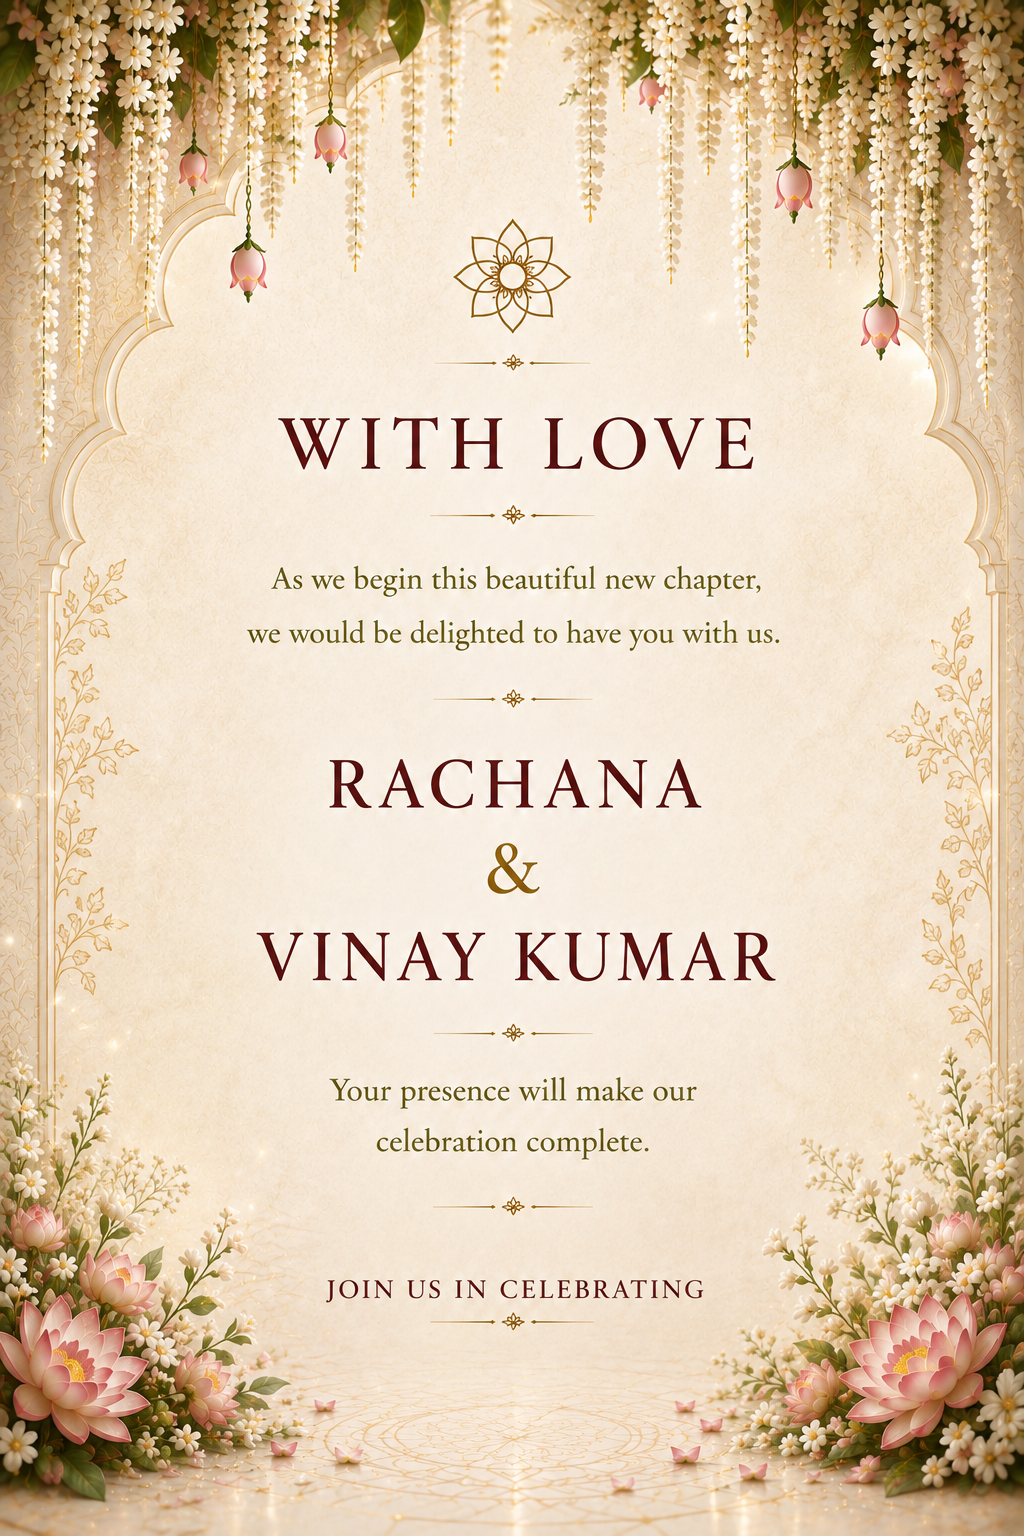
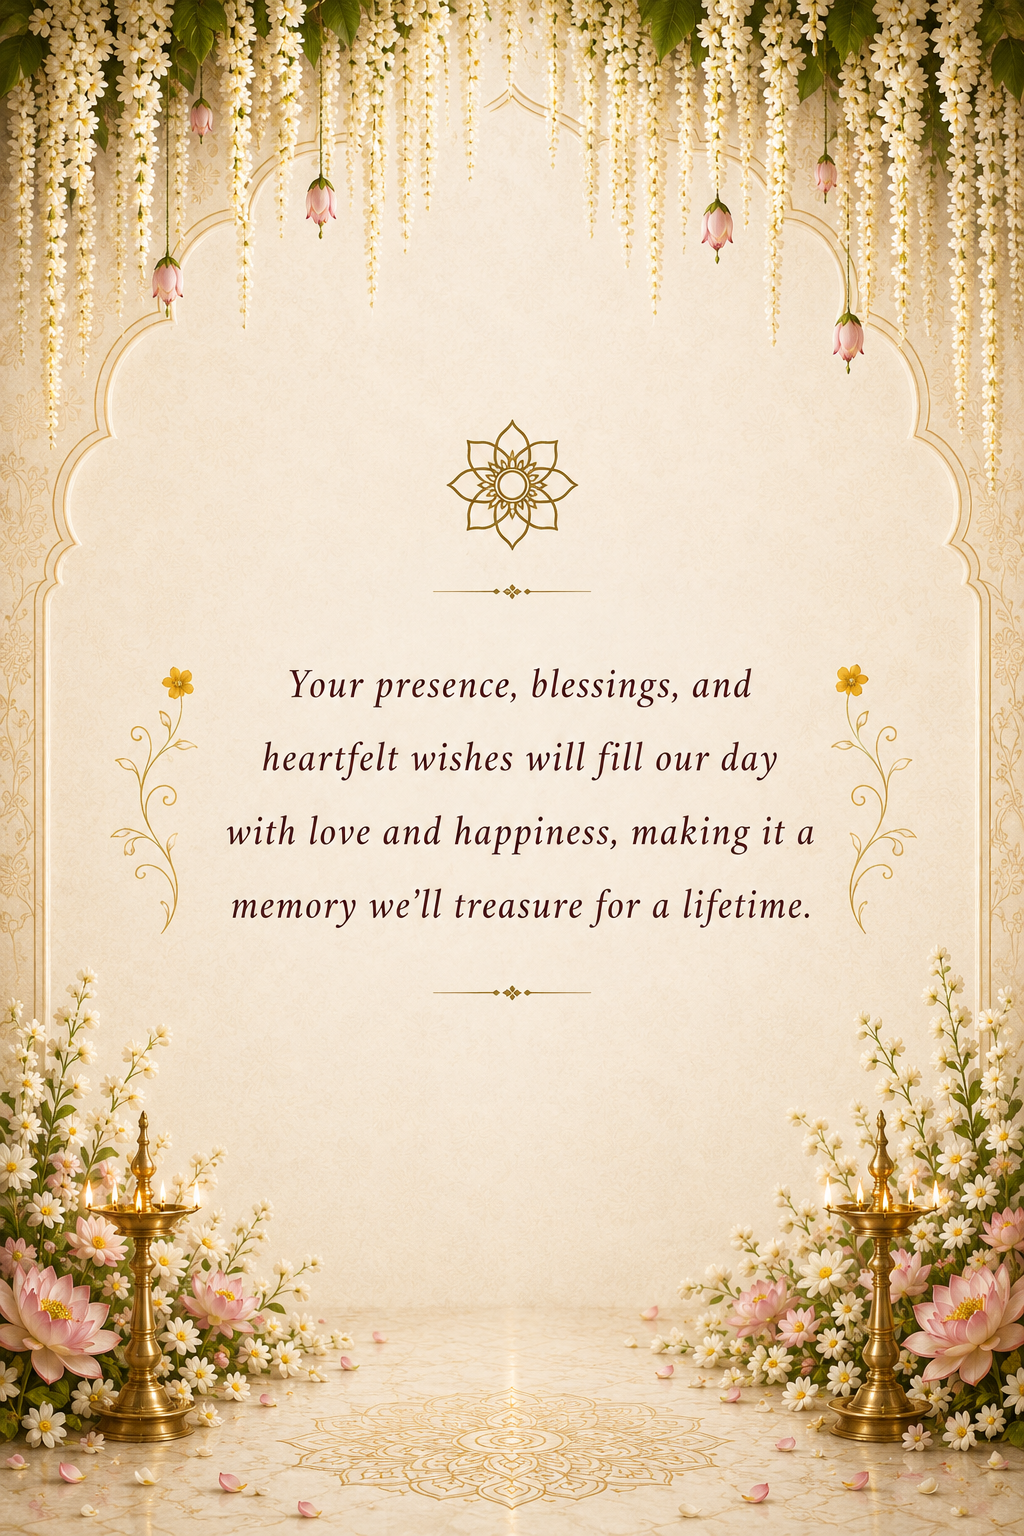
Add files via upload

diff --git a/index.html b/index.html
@@ -8,14 +8,12 @@
   <meta name="apple-mobile-web-app-status-bar-style" content="default">
   <title>Rachana & Vinay — Wedding Invitation</title>
 
-  <!-- Load the opening artwork first because it is the first screen visitors see. -->
   <link rel="preload" as="image" href="opening.png">
 
   <style>
     * { box-sizing: border-box; }
 
-    html,
-    body {
+    html, body {
       width: 100%;
       height: 100%;
       margin: 0;
@@ -27,7 +25,6 @@
 
     body { overscroll-behavior: none; }
 
-    /* Full-screen, vertically scrolling invitation with one page per viewport. */
     #invitation {
       width: 100%;
       height: 100dvh;
@@ -85,7 +82,6 @@
       opacity: 1;
     }
 
-    /* Transparent clickable area over the existing VIEW LOCATION artwork. */
     .map-hit {
       position: absolute;
       left: 31%;
@@ -110,7 +106,6 @@
       box-shadow: none !important;
     }
 
-    /* Opening page: static artwork. No animation is used. */
     #opening {
       position: fixed;
       inset: 0;
@@ -120,6 +115,7 @@
       touch-action: none;
       -webkit-tap-highlight-color: transparent;
       cursor: pointer;
+      transition: opacity 250ms ease;
     }
 
     #opening.entered {
@@ -153,7 +149,6 @@
       -webkit-tap-highlight-color: transparent;
     }
 
-    /* Phone layout: fill the screen vertically while preserving the artwork itself. */
     @media (max-width: 699px) {
       .page-art {
         height: 92%;
@@ -176,7 +171,6 @@
       }
     }
 
-    /* Desktop keeps the complete artwork visible without stretching. */
     @media (min-width: 700px) {
       .page-art {
         width: 100%;
@@ -203,22 +197,11 @@
 
   <main id="invitation">
     <section class="page" id="page1">
-      <img
-        class="page-art"
-        src="page1.png"
-        alt="Rachana and Vinay wedding invitation"
-        decoding="async"
-      >
+      <img class="page-art" src="page1.png" alt="Rachana and Vinay wedding invitation" decoding="async">
     </section>
 
     <section class="page" id="page2">
-      <img
-        class="page-art"
-        src="page2.png"
-        alt="Wedding ceremony, reception and venue details"
-        decoding="async"
-      >
-
+      <img class="page-art" src="page2.png" alt="Wedding ceremony, reception and venue details" decoding="async">
       <a
         class="map-hit"
         href="https://www.google.com/maps/search/?api=1&query=GNR%20Kalyana%20Mantapa%2C%20Jayanagar%2C%20Bengaluru"
@@ -227,12 +210,7 @@
     </section>
 
     <section class="page" id="page3">
-      <img
-        class="page-art"
-        src="page3.png"
-        alt="With Love — Rachana and Vinay Kumar"
-        decoding="async"
-      >
+      <img class="page-art" src="page3.png" alt="Wedding invitation message" decoding="async">
     </section>
   </main>
 
@@ -263,6 +241,7 @@
       opening.addEventListener("keydown", (event) => {
         if (event.key === "Enter" || event.key === " ") enter(event);
       });
+
       hit.addEventListener("click", enter);
       hit.addEventListener("touchend", enter, { passive: false });
 
@@ -287,6 +266,7 @@
       mapHit.addEventListener("touchstart", (event) => {
         event.stopPropagation();
       }, { passive: true });
+
       mapHit.addEventListener("click", (event) => {
         event.stopPropagation();
       });

diff --git a/README.md b/README.md
@@ -1,34 +1,35 @@
-# Rachana & Vinay Wedding Invitation
+# Rachana & Vinay — Wedding Invitation
 
-A simple, mobile-friendly wedding invitation built as a static GitHub Pages website.
+This version follows the uploaded reference implementation.
+
+## Exactly 4 screens
+
+1. Opening
+2. Page 1
+3. Page 2
+4. Page 3
+
+The opening is a full-screen artwork. Tapping/clicking anywhere opens the invitation.
+
+Pages 1–3 use full-screen vertical scroll snapping so each page occupies one viewport at a time. The reference implementation also uses the original artwork without image compression.
 
 ## Files
 
-- `index.html` — main invitation page and navigation logic.
-- `opening.png` — opening page artwork.
-- `page1.png` — names and wedding date.
-- `page2.png` — ceremony, reception, venue and Google Maps link.
-- `page3.png` — invitation message.
+- `index.html`
+- `opening.png`
+- `page1.png`
+- `page2.png`
+- `page3.png`
+- `README.md`
 
-## Details
+## Page 2 location
 
-- Opening artwork is shown as the first screen and requires a tap/click to enter.
-- Page 1, Page 2 and Page 3 use the final generated artwork supplied for the invitation.
-- Pages use vertical scroll snapping for a one-page-at-a-time experience.
-- `View Location` on Page 2 opens GNR Kalyana Mantapa, Jayanagar, Bengaluru in Google Maps.
-- No external JavaScript libraries or animation libraries are required.
-- The artwork files are kept at their original quality; no image compression is applied by the website.
+The transparent View Location hit area opens:
+
+GNR Kalyana Mantapa, Jayanagar, Bengaluru
 
 ## GitHub Pages
 
-Keep all files in the same repository directory, with `index.html` at the publishing root:
+Upload all six files to the repository root, then:
 
-```text
-/
-├── index.html
-├── opening.png
-├── page1.png
-├── page2.png
-├── page3.png
-└── README.md
-```
+Settings → Pages → Deploy from a branch → `main` → `/ (root)` → Save.
